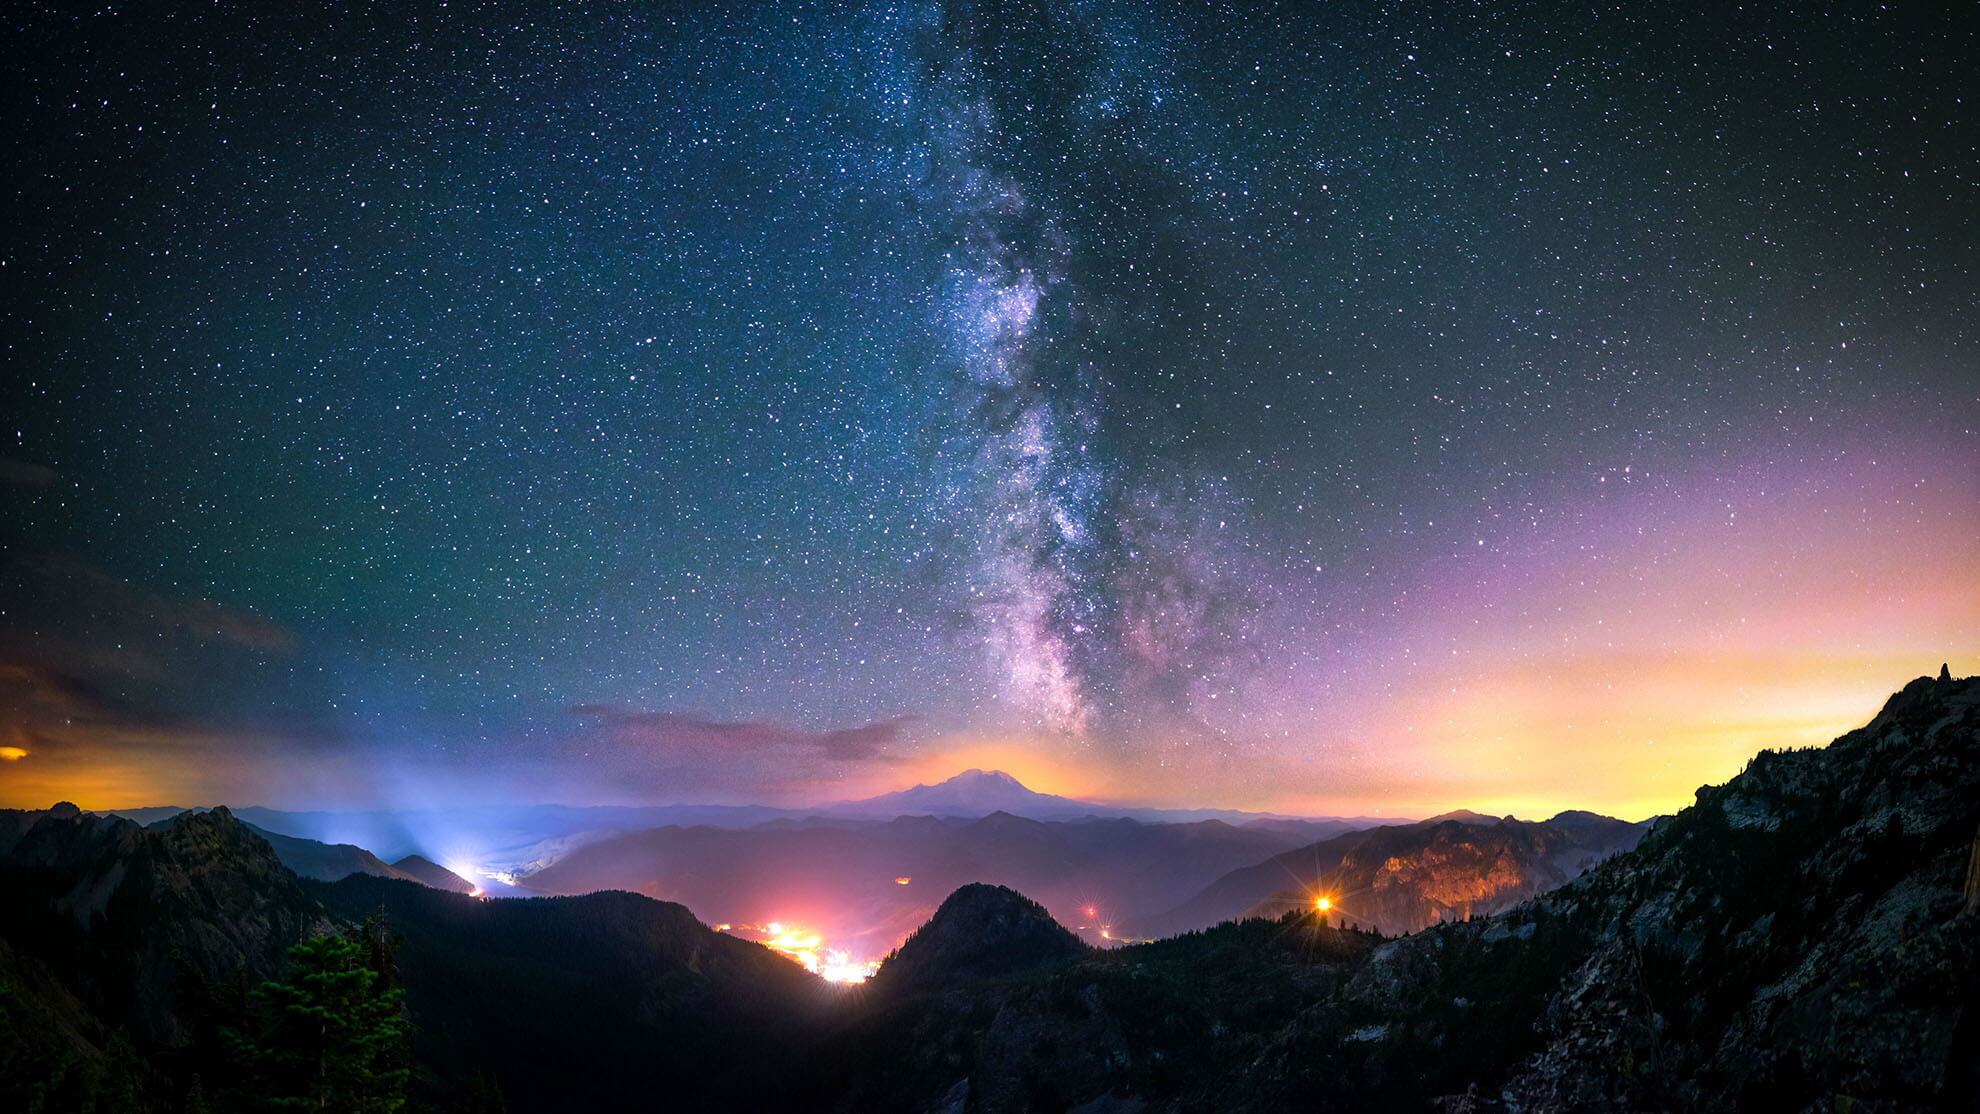
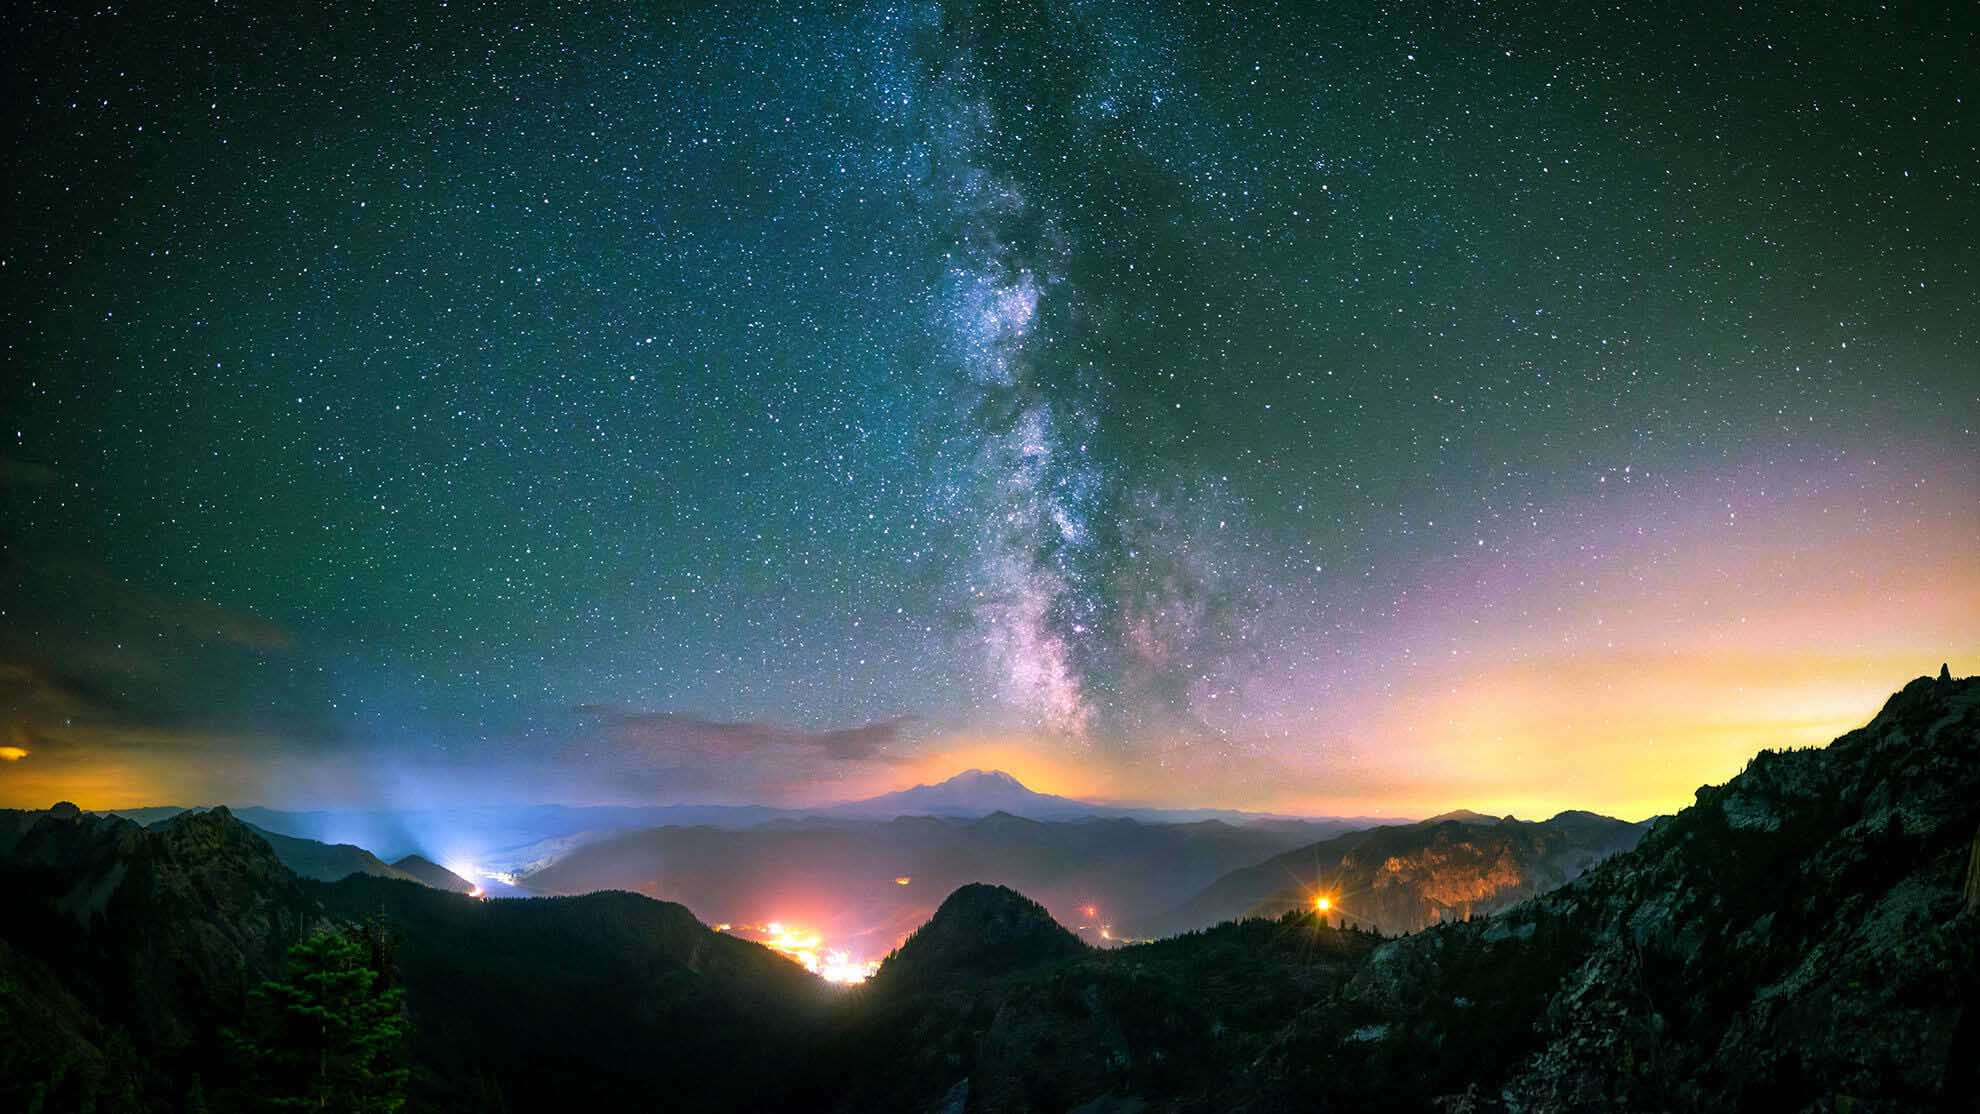
Added green filter to images, made paper colour more pink. Closes #89

diff --git a/Indepp/Content/site.min.css b/Indepp/Content/site.min.css
@@ -1,1 +1,1 @@
-@font-face{font-family:'courier_prime';src:url('fonts/courier_prime-webfont.eot');src:url('fonts/courier_prime-webfont.eot?#iefix') format('embedded-opentype'),url('fonts/courier_prime-webfont.woff2') format('woff2'),url('fonts/courier_prime-webfont.woff') format('woff'),url('fonts/courier_prime-webfont.ttf') format('truetype'),url('fonts/courier_prime-webfont.svg#courier_primeregular') format('svg');font-weight:normal;font-style:normal}@font-face{font-family:'nexa_rust';src:url('fonts/NexaRustSlab-BlackShadow01-Free-webfont.eot');src:url('fonts/NexaRustSlab-BlackShadow01-Free-webfont.eot?#iefix') format('embedded-opentype'),url('fonts/NexaRustSlab-BlackShadow01-Free-webfont.woff2') format('woff2'),url('fonts/NexaRustSlab-BlackShadow01-Free-webfont.woff') format('woff'),url('fonts/NexaRustSlab-BlackShadow01-Free-webfont.ttf') format('truetype'),url('fonts/NexaRustSlab-BlackShadow01-Free-webfont.svg#nexa_rust_slabblack_shadow_01') format('svg');font-weight:normal;font-style:normal}.specialHeaderText{font-family:nexa_rust,Arial,Helvetica,sans-serif;text-align:center;font-size:52px}.underHeaderText{font-size:16px;border-top:5px solid #333;border-bottom:5px solid #333;padding:10px 0}.paperBody{background-color:rgba(255,255,255,.75);border:1px solid #333;box-shadow:5px 5px 2px rgba(0,0,0,.5);font-family:courier_prime,Arial,Helvetica,sans-serif}.recentPosts{text-align:center}.recentPosts p{text-align:left}#placeList table .fa{vertical-align:middle}#placeList table td{vertical-align:middle}#backgroundImage{position:fixed;top:-50%;left:-50%;width:200%;height:200%}#backgroundImage img{position:absolute;top:0;left:0;right:0;bottom:0;margin:auto;min-width:50%;min-height:50%;-moz-transition:opacity 2s ease-in;-o-transition:opacity 2s ease-in;-ms-transition:opacity 2s ease-in;transition:opacity 2s ease-in}#menu-toggle{color:#333;text-decoration:none;position:absolute;top:10px}#wrapper{padding-left:0;-webkit-transition:all .5s ease;-moz-transition:all .5s ease;-o-transition:all .5s ease;transition:all .5s ease}#wrapper.toggled{padding-left:250px}#sidebar-wrapper{z-index:1000;position:fixed;left:250px;width:0;height:100%;margin-left:-200px;overflow-y:hidden;background:#000;background:rgba(0,0,0,.75);-webkit-transition:all .5s ease;-moz-transition:all .5s ease;-o-transition:all .5s ease;transition:all .5s ease}#wrapper.toggled #sidebar-wrapper{width:250px}#page-content-wrapper{width:100%;position:absolute;padding:15px;padding-left:100px;padding-right:100px}#wrapper.toggled #page-content-wrapper{position:absolute;margin-right:-250px}.sidebar-nav{position:absolute;top:0;width:250px;margin:0;padding:0;list-style:none}.sidebar-nav li{text-indent:15px;line-height:50px}.sidebar-nav li a{display:block;text-decoration:none;color:#999}.sidebar-nav li a i,.sidebar-nav li a span{vertical-align:middle}.sidebar-nav li a span{font-size:20px;padding-left:10px}.sidebar-nav li a.active{color:#fff;background:rgba(255,255,255,.2)}.sidebar-nav li a:hover{text-decoration:none;color:#fff;background:rgba(255,255,255,.2)}.sidebar-nav li a:active,.sidebar-nav li a:focus{text-decoration:none}.sidebar-nav>.sidebar-brand{height:65px;font-size:24px;line-height:60px;text-align:center;text-indent:0}.sidebar-nav>.sidebar-brand a{color:#999}.sidebar-nav>.sidebar-brand a:hover{color:#fff;background:none}@media(min-width:768px){#wrapper{padding-left:250px}#wrapper.toggled{padding-left:0;padding-right:100px}#sidebar-wrapper{width:250px}#wrapper.toggled #sidebar-wrapper{width:0}#page-content-wrapper{padding:20px;position:relative;padding-left:100px}#wrapper.toggled #page-content-wrapper{position:relative;margin-right:0}}#adminPlaceList a:hover,#adminPlaceList a:focus{text-decoration:none}.btn-group a{text-decoration:none}.input-group-addon{min-width:135px}.editSection{padding:20px 0}.editSection .input-group{width:100%}.editSection .input-group textarea{width:100%}.editSection.workingHours .input-group span{min-width:200px}.field-validation-error{color:#f00}.field-validation-valid{display:none}.input-validation-error{border:1px solid #f00;background-color:#fee}.validation-summary-errors{font-weight:bold;color:#f00}.validation-summary-valid{display:none}ul.typeahead{width:100%}.boldText{font-weight:bold}.uppercaseText{text-transform:uppercase}.strikethrough:not(:checked)+span{text-decoration:line-through}#blogPostList h2,#articleList h2,#placeList h2{text-align:center}#sign-out{color:#333;text-decoration:none;position:absolute;top:10px;right:10px}.filterSubmitButton{margin-top:15px}#advancedSearchButton{margin-bottom:20px}.input-group.required span.input-group-addon:after{content:" *";color:#f00}.editSection.required label:after{content:" *";color:#f00}
+@font-face{font-family:'courier_prime';src:url('fonts/courier_prime-webfont.eot');src:url('fonts/courier_prime-webfont.eot?#iefix') format('embedded-opentype'),url('fonts/courier_prime-webfont.woff2') format('woff2'),url('fonts/courier_prime-webfont.woff') format('woff'),url('fonts/courier_prime-webfont.ttf') format('truetype'),url('fonts/courier_prime-webfont.svg#courier_primeregular') format('svg');font-weight:normal;font-style:normal}@font-face{font-family:'nexa_rust';src:url('fonts/NexaRustSlab-BlackShadow01-Free-webfont.eot');src:url('fonts/NexaRustSlab-BlackShadow01-Free-webfont.eot?#iefix') format('embedded-opentype'),url('fonts/NexaRustSlab-BlackShadow01-Free-webfont.woff2') format('woff2'),url('fonts/NexaRustSlab-BlackShadow01-Free-webfont.woff') format('woff'),url('fonts/NexaRustSlab-BlackShadow01-Free-webfont.ttf') format('truetype'),url('fonts/NexaRustSlab-BlackShadow01-Free-webfont.svg#nexa_rust_slabblack_shadow_01') format('svg');font-weight:normal;font-style:normal}.specialHeaderText{font-family:nexa_rust,Arial,Helvetica,sans-serif;text-align:center;font-size:52px}.underHeaderText{font-size:16px;border-top:5px solid #333;border-bottom:5px solid #333;padding:10px 0}.paperBody{background-color:rgba(252,245,229,.85);border:1px solid #333;box-shadow:5px 5px 2px rgba(0,0,0,.5);font-family:courier_prime,Arial,Helvetica,sans-serif}.recentPosts{text-align:center}.recentPosts p{text-align:left}#placeList table .fa{vertical-align:middle}#placeList table td{vertical-align:middle}#backgroundImage{position:fixed;top:-50%;left:-50%;width:200%;height:200%}#backgroundImage img{position:absolute;top:0;left:0;right:0;bottom:0;margin:auto;min-width:50%;min-height:50%;-moz-transition:opacity 2s ease-in;-o-transition:opacity 2s ease-in;-ms-transition:opacity 2s ease-in;transition:opacity 2s ease-in}#menu-toggle{color:#333;text-decoration:none;position:absolute;top:10px}#wrapper{padding-left:0;-webkit-transition:all .5s ease;-moz-transition:all .5s ease;-o-transition:all .5s ease;transition:all .5s ease}#wrapper.toggled{padding-left:250px}#sidebar-wrapper{z-index:1000;position:fixed;left:250px;width:0;height:100%;margin-left:-200px;overflow-y:hidden;background:#000;background:rgba(0,0,0,.75);-webkit-transition:all .5s ease;-moz-transition:all .5s ease;-o-transition:all .5s ease;transition:all .5s ease}#wrapper.toggled #sidebar-wrapper{width:250px}#page-content-wrapper{width:100%;position:absolute;padding:15px;padding-left:100px;padding-right:100px}#wrapper.toggled #page-content-wrapper{position:absolute;margin-right:-250px}.sidebar-nav{position:absolute;top:0;width:250px;margin:0;padding:0;list-style:none}.sidebar-nav li{text-indent:15px;line-height:50px}.sidebar-nav li a{display:block;text-decoration:none;color:#999}.sidebar-nav li a i,.sidebar-nav li a span{vertical-align:middle}.sidebar-nav li a span{font-size:20px;padding-left:10px}.sidebar-nav li a.active{color:#fff;background:rgba(255,255,255,.2)}.sidebar-nav li a:hover{text-decoration:none;color:#fff;background:rgba(255,255,255,.2)}.sidebar-nav li a:active,.sidebar-nav li a:focus{text-decoration:none}.sidebar-nav>.sidebar-brand{height:65px;font-size:24px;line-height:60px;text-align:center;text-indent:0}.sidebar-nav>.sidebar-brand a{color:#999}.sidebar-nav>.sidebar-brand a:hover{color:#fff;background:none}@media(min-width:768px){#wrapper{padding-left:250px}#wrapper.toggled{padding-left:0;padding-right:100px}#sidebar-wrapper{width:250px}#wrapper.toggled #sidebar-wrapper{width:0}#page-content-wrapper{padding:20px;position:relative;padding-left:100px}#wrapper.toggled #page-content-wrapper{position:relative;margin-right:0}}#adminPlaceList a:hover,#adminPlaceList a:focus{text-decoration:none}.btn-group a{text-decoration:none}.input-group-addon{min-width:135px}.editSection{padding:20px 0}.editSection .input-group{width:100%}.editSection .input-group textarea{width:100%}.editSection.workingHours .input-group span{min-width:200px}.field-validation-error{color:#f00}.field-validation-valid{display:none}.input-validation-error{border:1px solid #f00;background-color:#fee}.validation-summary-errors{font-weight:bold;color:#f00}.validation-summary-valid{display:none}ul.typeahead{width:100%}.boldText{font-weight:bold}.uppercaseText{text-transform:uppercase}.strikethrough:not(:checked)+span{text-decoration:line-through}#blogPostList h2,#articleList h2,#placeList h2{text-align:center}#sign-out{color:#333;text-decoration:none;position:absolute;top:10px;right:10px}.filterSubmitButton{margin-top:15px}#advancedSearchButton{margin-bottom:20px}.input-group.required span.input-group-addon:after{content:" *";color:#f00}.editSection.required label:after{content:" *";color:#f00}

diff --git a/Indepp/Content/site.css b/Indepp/Content/site.css
@@ -25,7 +25,7 @@
   padding: 10px 0;
 }
 .paperBody {
-  background-color: rgba(255, 255, 255, 0.75);
+  background-color: rgba(252, 245, 229, 0.85);
   border: 1px solid #333;
   box-shadow: 5px 5px 2px rgba(0, 0, 0, 0.5);
   font-family: courier_prime, Arial, Helvetica, sans-serif;

diff --git a/Indepp/Content/site.less b/Indepp/Content/site.less
@@ -25,7 +25,7 @@
     font-style: normal;
 }
 
-@paperColor: rgba(255, 255, 255, 0.75);
+@paperColor: rgba(252, 245, 229, 0.85);
 
 .specialHeaderText {
     font-family: nexa_rust, Arial, Helvetica, sans-serif;
